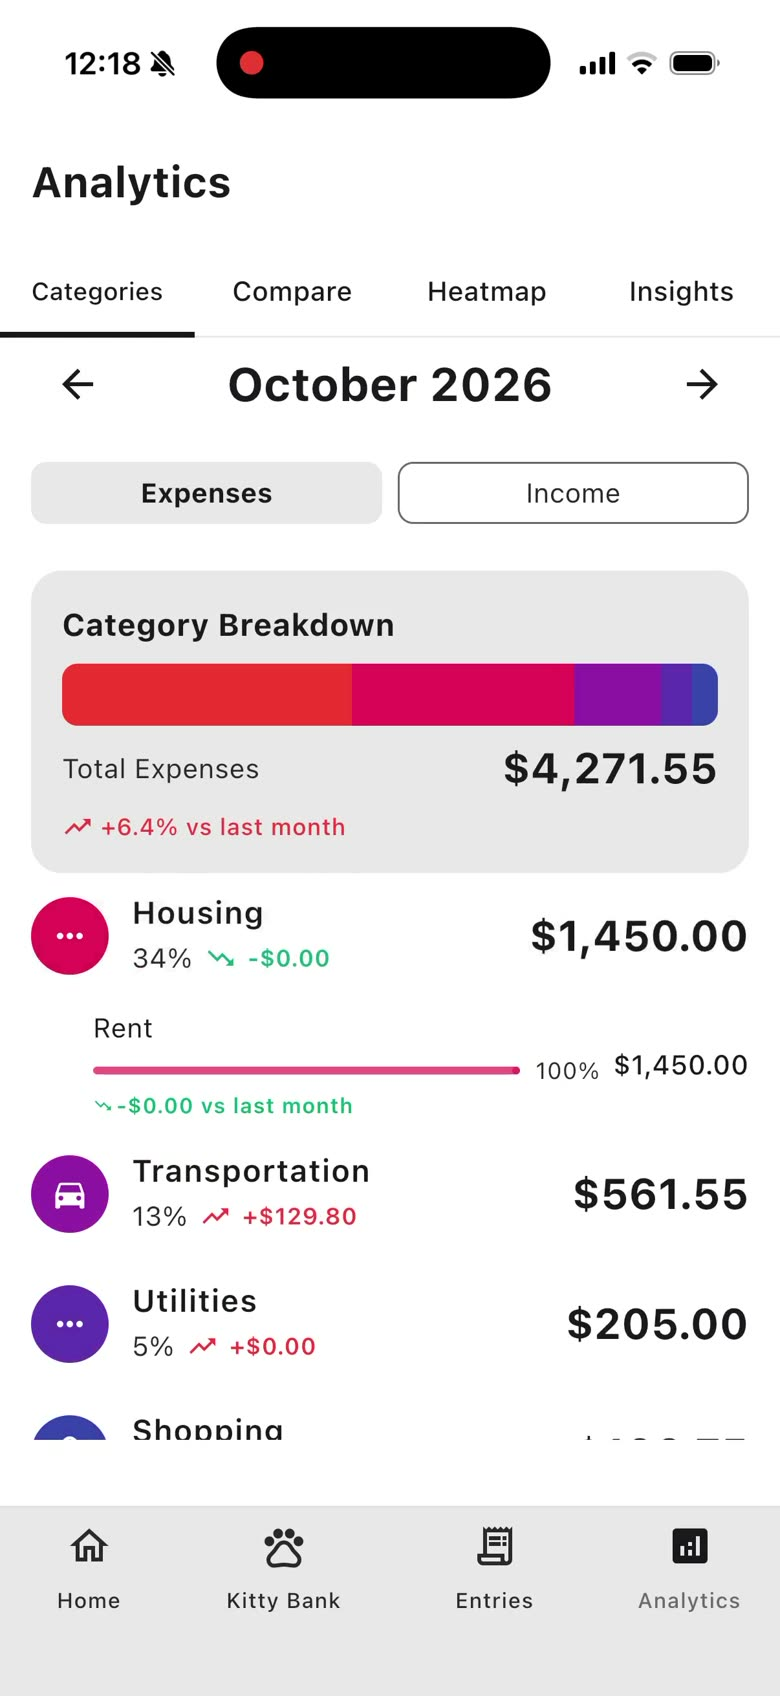
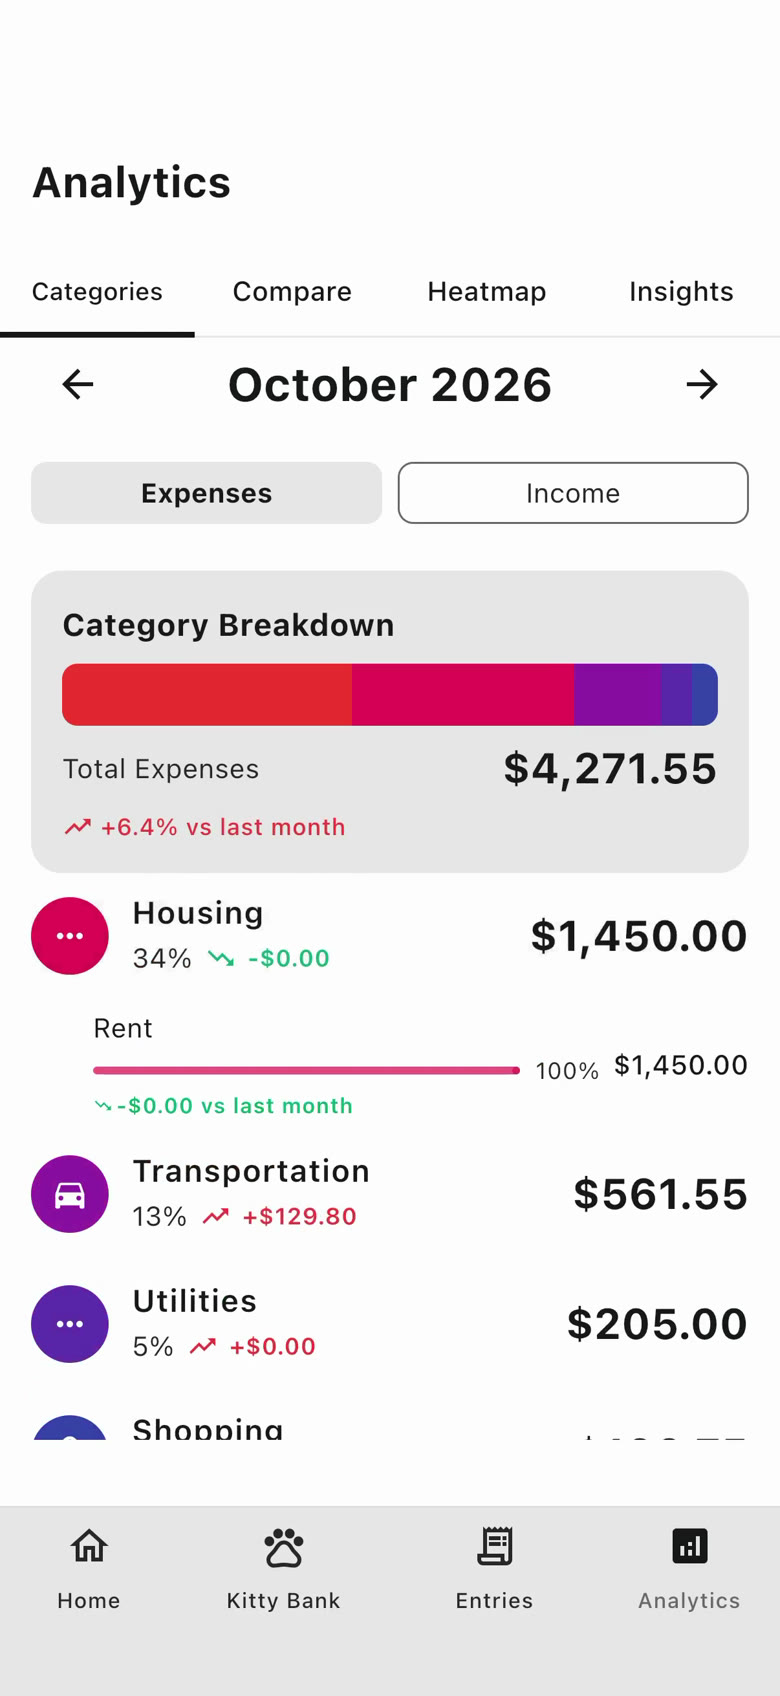
Daily Allowance screenshots: clean status bar
The frames came from a screen recording, so the status bar showed the clock
and the recording indicator. It's now plain background, matched to the
app's own white, with the image links versioned so browsers fetch the new
files.

diff --git a/dailyallowance/index.html b/dailyallowance/index.html
@@ -52,10 +52,10 @@
 <p><a class="button" href="https://apps.apple.com/app/id6829595254">Get it on the App Store<svg class="icon" aria-hidden="true" focusable="false" xmlns="http://www.w3.org/2000/svg" viewBox="0 0 24 24" fill="none" stroke="currentColor" stroke-width="2" stroke-linecap="round" stroke-linejoin="round"><path d="M15 3h6v6"/><path d="M10 14 21 3"/><path d="M18 13v6a2 2 0 0 1-2 2H5a2 2 0 0 1-2-2V8a2 2 0 0 1 2-2h6"/></svg></a></p>
 
 <ul class="shots" aria-label="Screenshots">
-  <li><figure><img src="/assets/screens/dailyallowance-home.jpg" alt="Daily Allowance home screen showing a Daily Balance of $96.33, a chart of the next few days, and today's entries." width="390" height="848" loading="lazy"><figcaption>Your daily number, at a glance</figcaption></figure></li>
-  <li><figure><img src="/assets/screens/dailyallowance-categories.jpg" alt="Analytics screen with a category breakdown of October spending: housing, transportation and utilities." width="390" height="848" loading="lazy"><figcaption>Where the money went</figcaption></figure></li>
-  <li><figure><img src="/assets/screens/dailyallowance-heatmap.jpg" alt="Calendar heatmap of October with each day green or red for under or over the daily allowance." width="390" height="848" loading="lazy"><figcaption>Every day, over or under</figcaption></figure></li>
-  <li><figure><img src="/assets/screens/dailyallowance-insights.jpg" alt="AI insights report summarizing five days of November spending against October's pace." width="390" height="848" loading="lazy"><figcaption>AI reports in plain language (Premium)</figcaption></figure></li>
+  <li><figure><img src="/assets/screens/dailyallowance-home.jpg?v=2" alt="Daily Allowance home screen showing a Daily Balance of $96.33, a chart of the next few days, and today's entries." width="390" height="848" loading="lazy"><figcaption>Your daily number, at a glance</figcaption></figure></li>
+  <li><figure><img src="/assets/screens/dailyallowance-categories.jpg?v=2" alt="Analytics screen with a category breakdown of October spending: housing, transportation and utilities." width="390" height="848" loading="lazy"><figcaption>Where the money went</figcaption></figure></li>
+  <li><figure><img src="/assets/screens/dailyallowance-heatmap.jpg?v=2" alt="Calendar heatmap of October with each day green or red for under or over the daily allowance." width="390" height="848" loading="lazy"><figcaption>Every day, over or under</figcaption></figure></li>
+  <li><figure><img src="/assets/screens/dailyallowance-insights.jpg?v=2" alt="AI insights report summarizing five days of November spending against October's pace." width="390" height="848" loading="lazy"><figcaption>AI reports in plain language (Premium)</figcaption></figure></li>
 </ul>
 
 <h2>Help and policies</h2>

diff --git a/index.html b/index.html
@@ -70,7 +70,7 @@
           <h3><a href="/dailyallowance/">Daily Allowance</a></h3>
           <span class="label live">Available on iPhone</span>
           <p class="app-desc">Know exactly how much you can spend today, after your bills are covered.</p>
-          <div class="app-preview" aria-hidden="true"><img src="/assets/screens/dailyallowance-home.jpg" alt="" loading="lazy"></div>
+          <div class="app-preview" aria-hidden="true"><img src="/assets/screens/dailyallowance-home.jpg?v=2" alt="" loading="lazy"></div>
           <span class="app-more" aria-hidden="true">See features and screenshots<svg class="icon" aria-hidden="true" focusable="false" xmlns="http://www.w3.org/2000/svg" viewBox="0 0 24 24" fill="none" stroke="currentColor" stroke-width="2" stroke-linecap="round" stroke-linejoin="round"><path d="M5 12h14"/><path d="m12 5 7 7-7 7"/></svg></span>
           <div class="app-links">
             <a class="button" href="https://apps.apple.com/app/id6829595254">Get it on the App Store<svg class="icon" aria-hidden="true" focusable="false" xmlns="http://www.w3.org/2000/svg" viewBox="0 0 24 24" fill="none" stroke="currentColor" stroke-width="2" stroke-linecap="round" stroke-linejoin="round"><path d="M15 3h6v6"/><path d="M10 14 21 3"/><path d="M18 13v6a2 2 0 0 1-2 2H5a2 2 0 0 1-2-2V8a2 2 0 0 1 2-2h6"/></svg></a>
